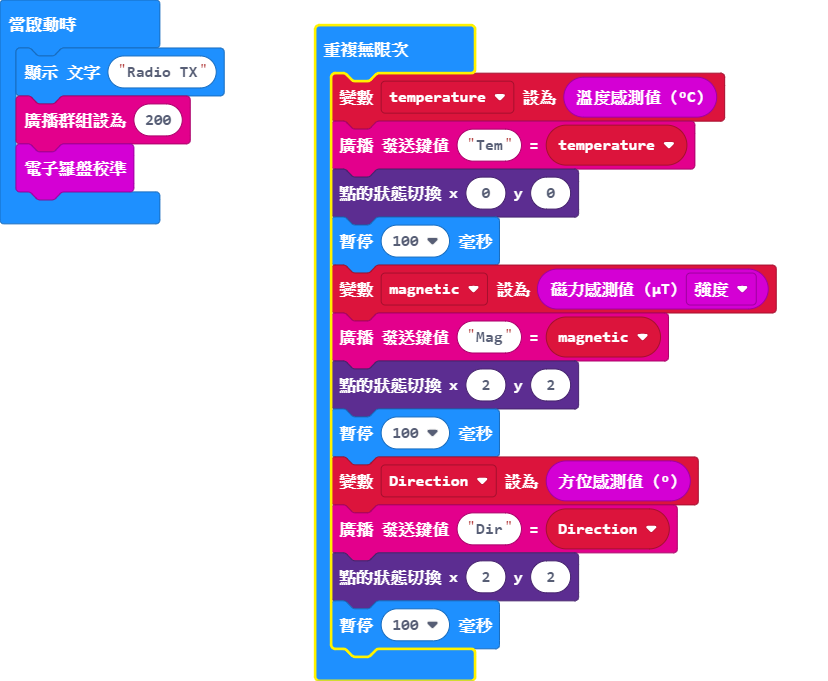
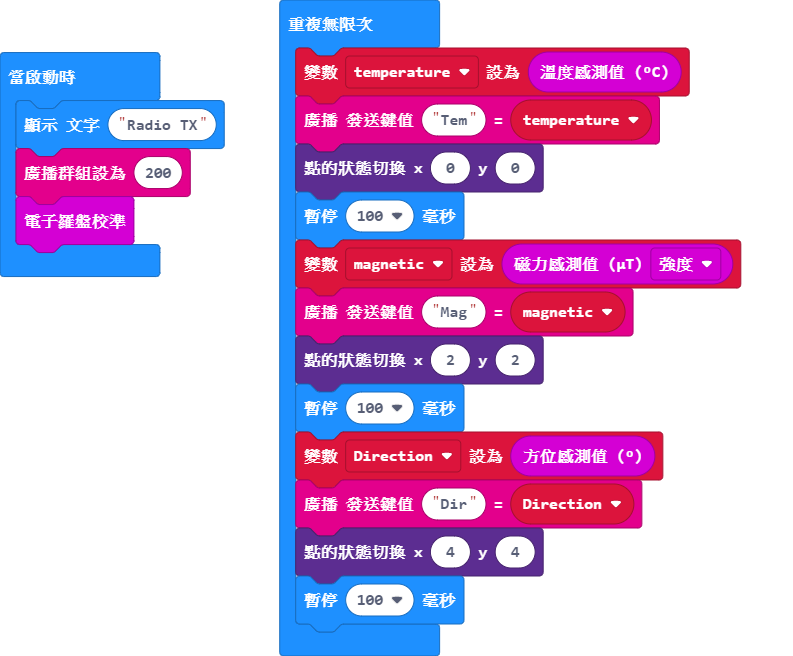
Update main.blocks, main.ts

diff --git a/main.ts b/main.ts
@@ -15,6 +15,6 @@ basic.forever(function () {
     basic.pause(100)
     Direction2 = input.compassHeading()
     radio.sendValue("Dir", Direction2)
-    led.toggle(2, 2)
+    led.toggle(4, 4)
     basic.pause(100)
 })
